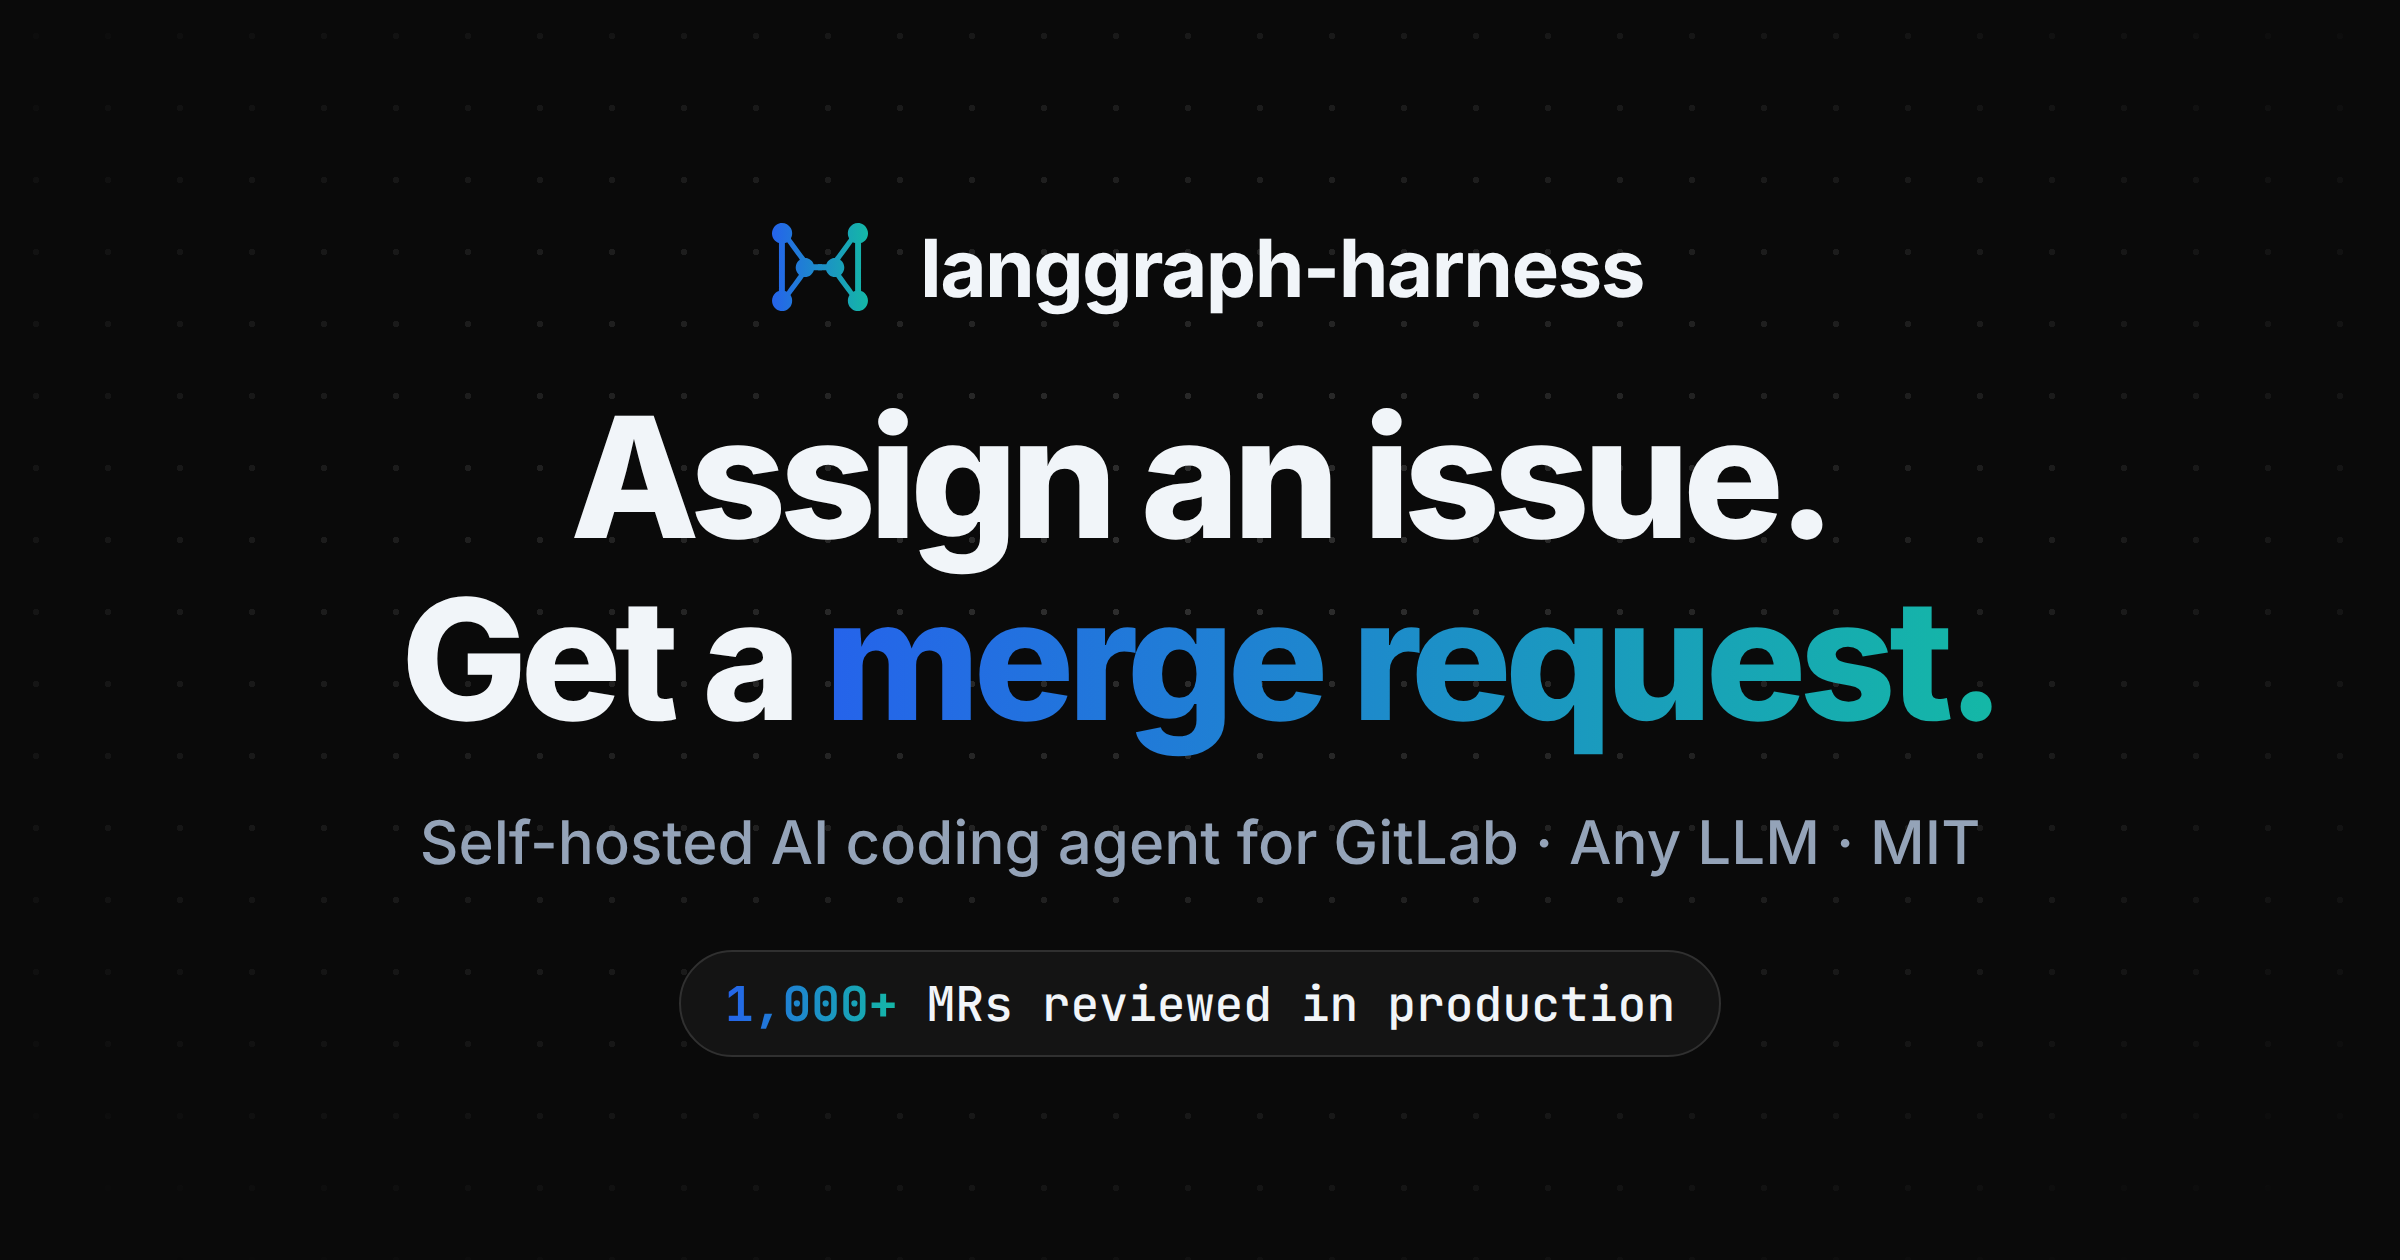
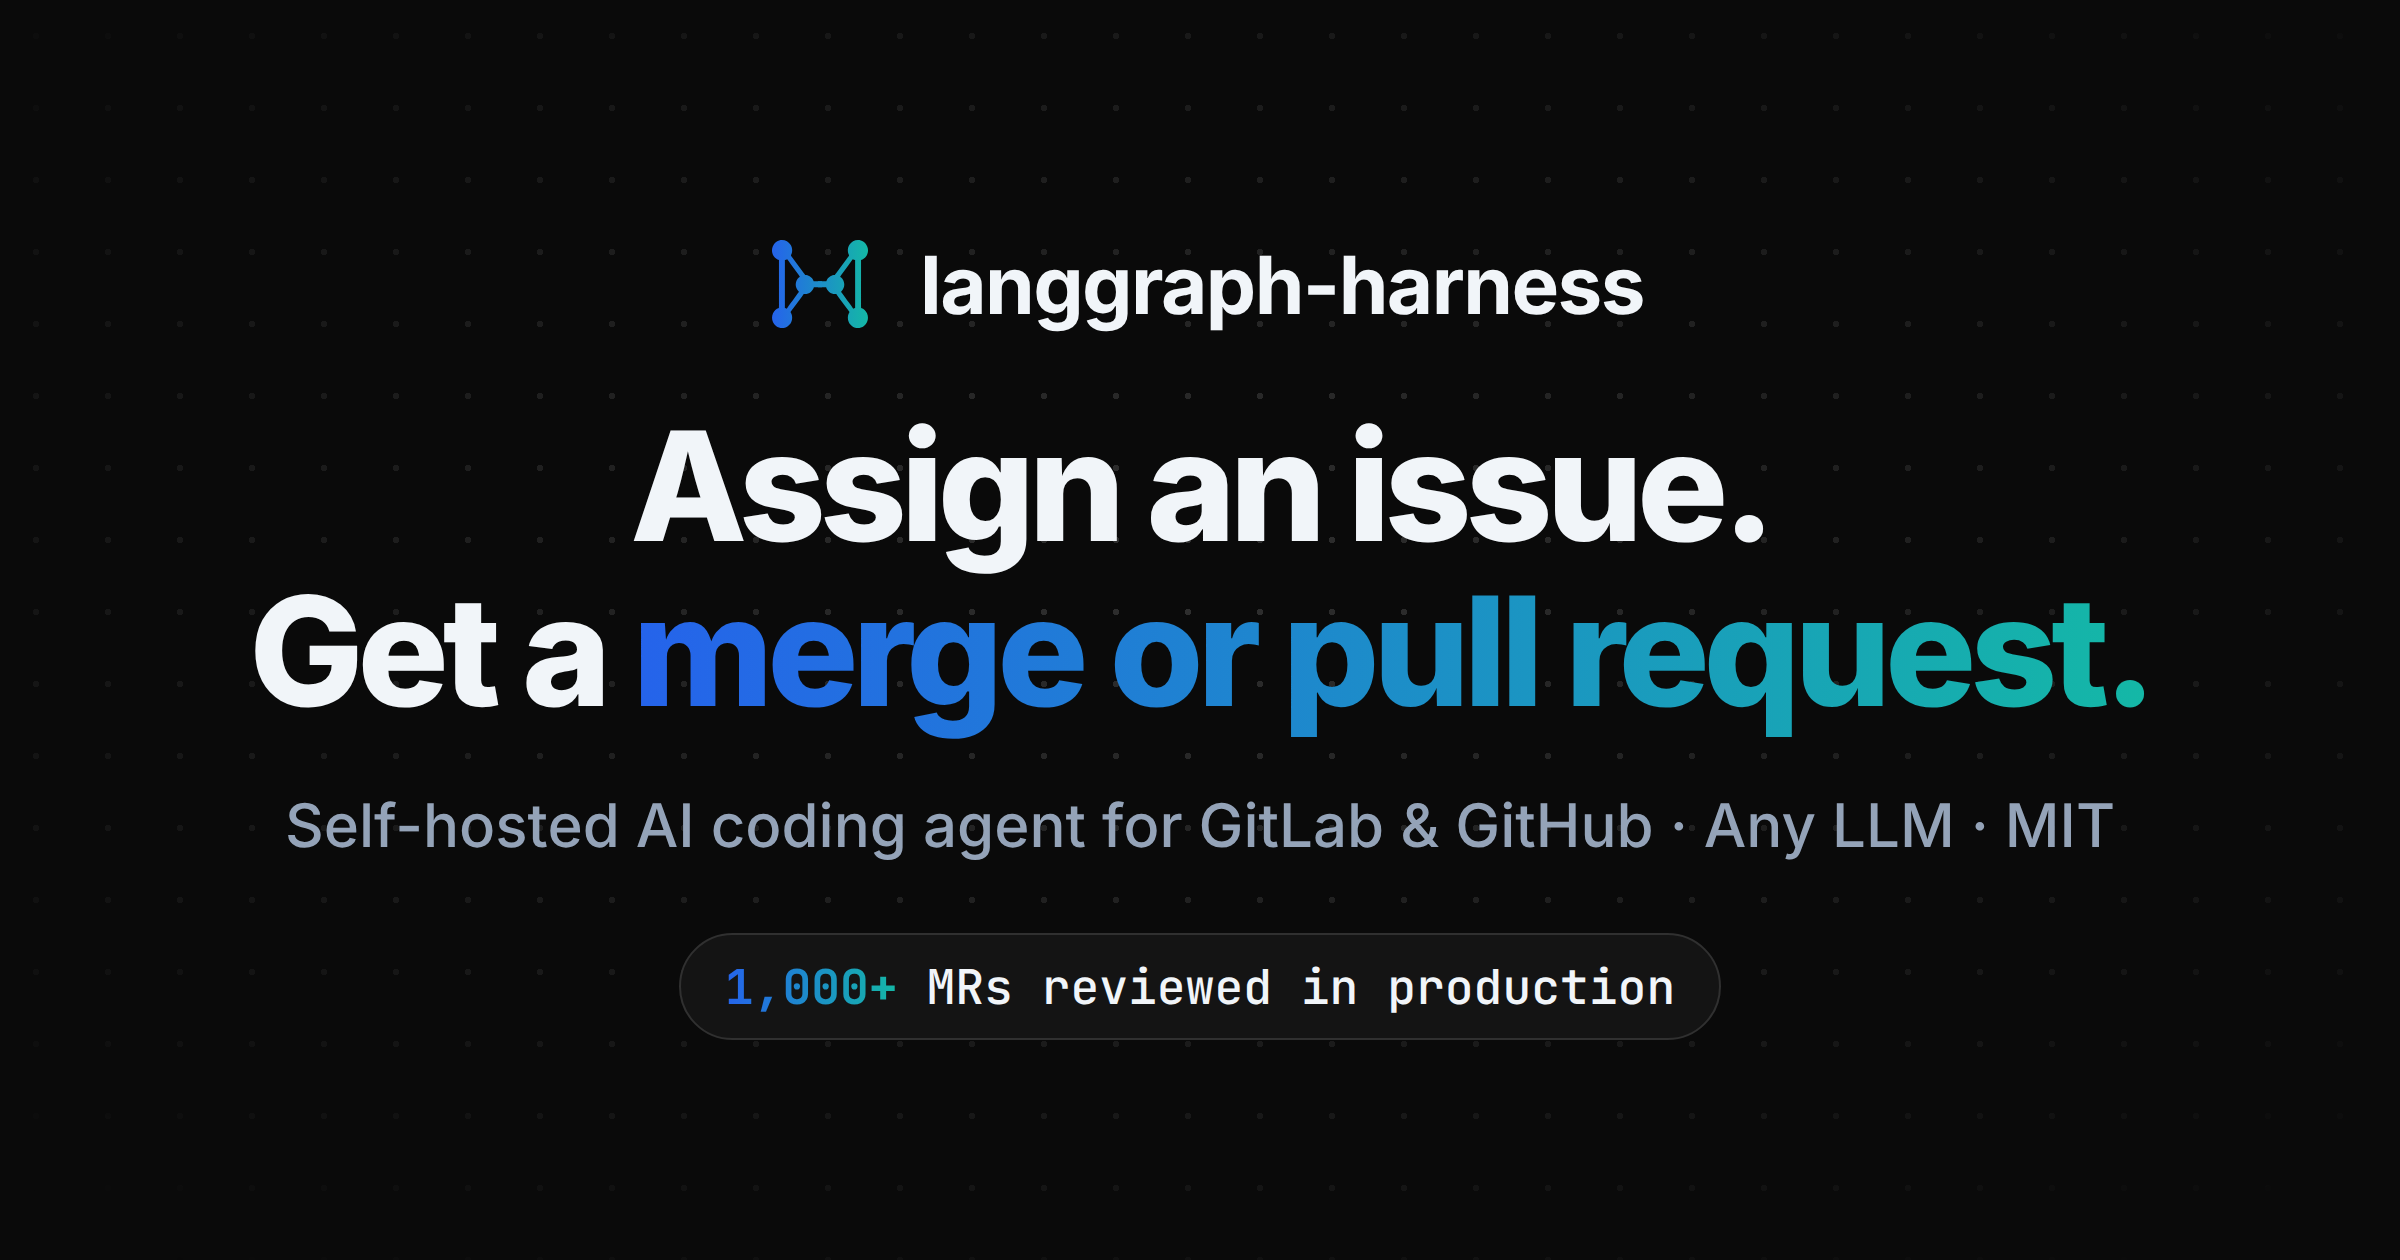
docs: scope alternative claim, refresh og card

diff --git a/README.md b/README.md
@@ -6,7 +6,7 @@
 
 **Self-hosted AI coding agent platform for GitLab and GitHub, built with LangGraph**
 
-Reviews merge and pull requests, resolves issues and tasks autonomously, and chats with full project context — remembering what matters so every run builds on the last. An open-source alternative to GitLab Duo and the GitHub Copilot coding agent that runs on your own infrastructure.
+Reviews merge and pull requests, resolves issues and tasks autonomously, and chats with full project context — remembering what matters so every run builds on the last. An open-source alternative to the code review and coding agents in GitLab Duo and GitHub Copilot, running on your own infrastructure.
 
 Battle-tested in production since mid-2026 — **133 releases**, 1k+ reviews, 67% comment acceptance rate (Sept 29 2026, [see snapshot](#screenshots)). [Development history →](CHANGELOG.md) every failure and fix, documented.
 
